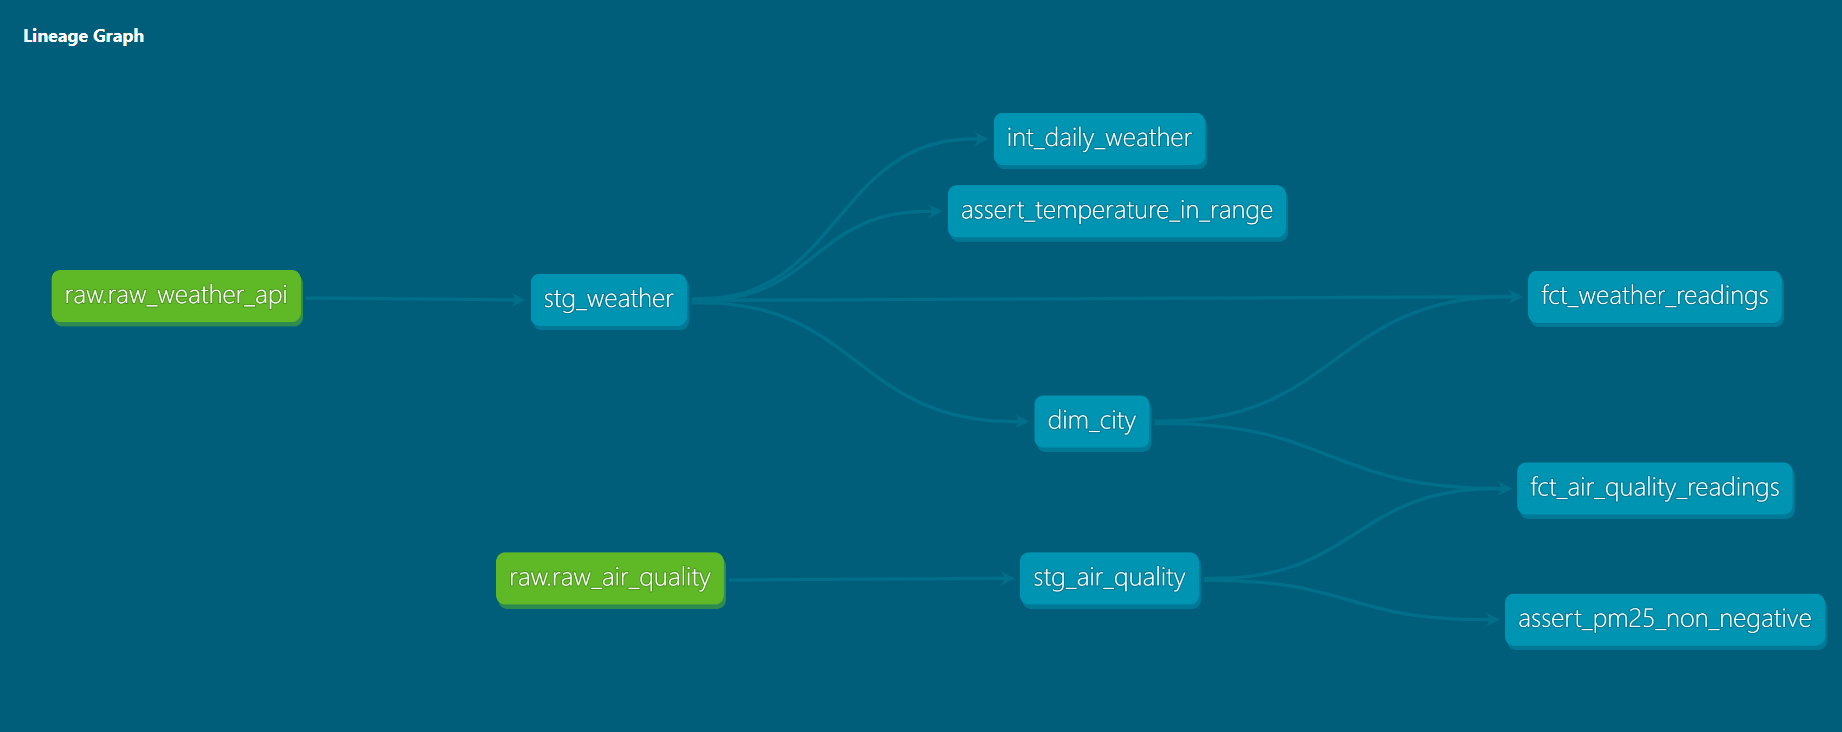
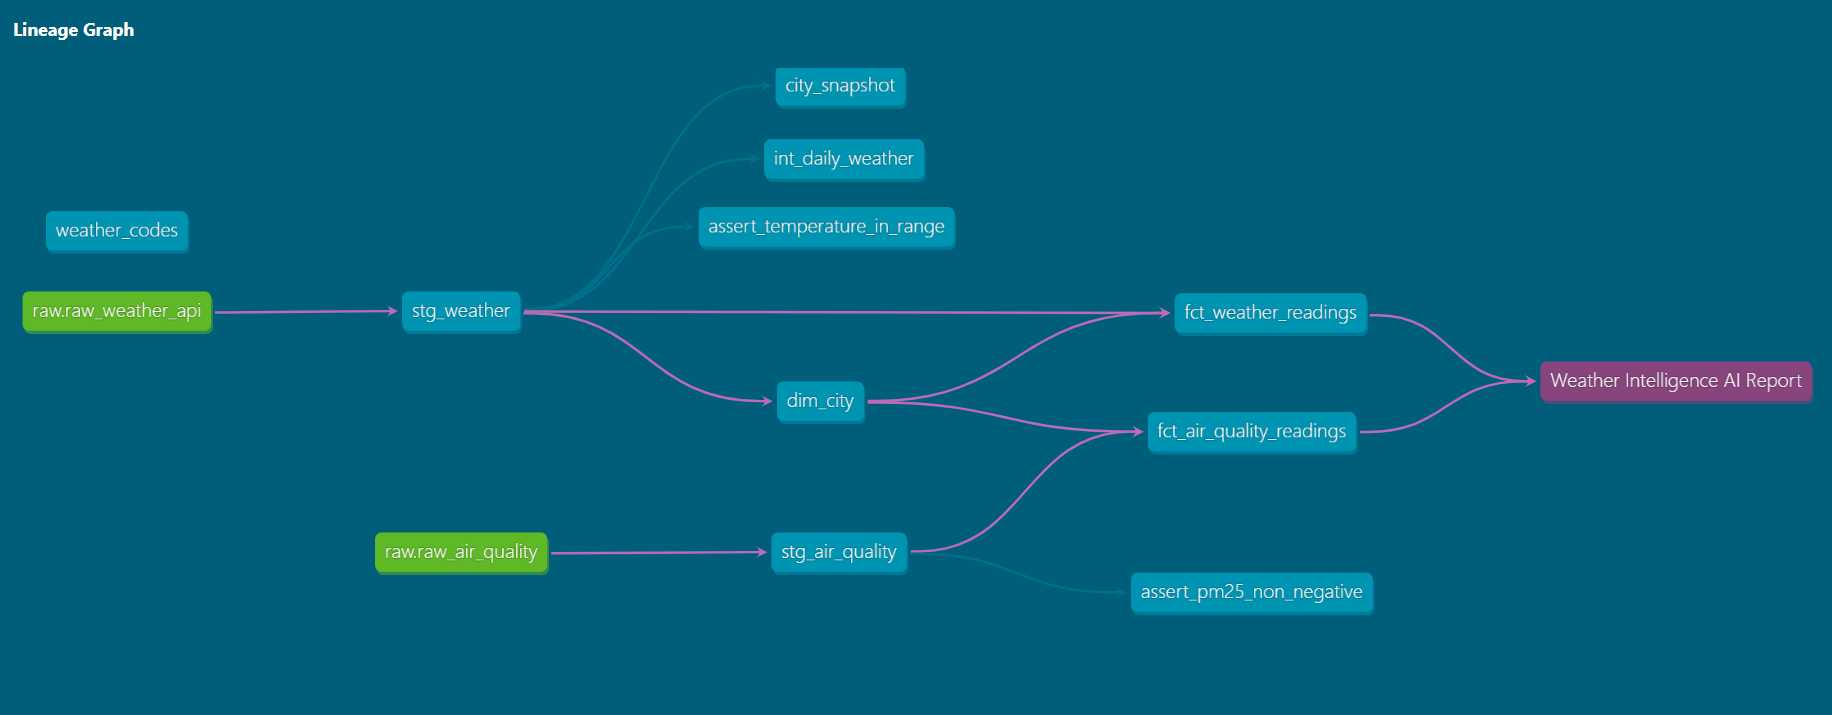
feat: week 3 day 5 - dbt_expectations, freshness, exposures, analytics mart feeding AI summary

diff --git a/src/ai_summary.py b/src/ai_summary.py
@@ -8,60 +8,39 @@ logger = logging.getLogger(__name__)
 
 
 def fetch_rich_summary() -> str:
+    
+    """
+    Pull the daily city summary from the dbt-built mart for AI analysis.
+    """
 
     query = """
-        WITH daily_stats AS (
-            SELECT
-                c.city_name,
-                c.state,
-                d.full_date,
-                d.day_of_week,
-                w.category                          AS weather_category,
-                ROUND(AVG(f.temperature_c), 2)      AS avg_temp,
-                MAX(f.temperature_c)                AS max_temp,
-                MIN(f.temperature_c)                AS min_temp,
-                ROUND(AVG(f.humidity_pct), 2)       AS avg_humidity,
-                ROUND(AVG(f.windspeed_kmh), 2)      AS avg_wind
-            FROM WEATHER_DB.MARTS.FACT_WEATHER_READINGS f
-            JOIN WEATHER_DB.MARTS.DIM_CITY c
-                ON f.city_sk = c.city_sk AND c.is_current = TRUE
-            JOIN WEATHER_DB.MARTS.DIM_DATE d
-                ON f.date_sk = d.date_sk
-            JOIN WEATHER_DB.MARTS.DIM_WEATHER_CODE w
-                ON f.weather_code_sk = w.code_sk
-            GROUP BY c.city_name, c.state, d.full_date, d.day_of_week, w.category
-        ),
-        city_summary AS (
-            SELECT
-                city_name,
-                state,
-                ROUND(AVG(avg_temp), 2)             AS overall_avg_temp,
-                MAX(max_temp)                       AS overall_max_temp,
-                MIN(min_temp)                       AS overall_min_temp,
-                ROUND(AVG(avg_humidity), 2)         AS overall_avg_humidity,
-                COUNT(DISTINCT full_date)           AS days_of_data,
-                LISTAGG(DISTINCT weather_category, ', ')
-                    WITHIN GROUP (ORDER BY weather_category) AS conditions_seen
-            FROM daily_stats
-            GROUP BY city_name, state
-        )
-        SELECT * FROM city_summary ORDER BY overall_avg_temp DESC
+        SELECT
+            city_name,
+            reading_date,
+            avg_temp,
+            max_temp,
+            min_temp,
+            avg_humidity,
+            avg_pm25,
+            avg_uv,
+            air_quality_category
+        FROM WEATHER_DB.DBT_DEV.MART_CITY_DAILY_SUMMARY
+        ORDER BY reading_date DESC, city_name
+        LIMIT 40
     """
 
     df = run_query_df(query)
     if df.empty:
-        return "No data available in FACT tables yet."
+        return "No data available in the daily summary mart yet."
 
-    lines = [f"Weather Intelligence Report — Generated {datetime.now(timezone.utc).strftime('%Y-%m-%d %H:%M')} UTC\n"]
+    lines = [f"Weather & Air Quality Daily Summary — generated {datetime.now(timezone.utc).strftime('%Y-%m-%d %H:%M')} UTC\n"]
     for _, row in df.iterrows():
         lines.append(
-            f"• {row['CITY_NAME']} ({row['STATE']}): "
-            f"Avg {row['OVERALL_AVG_TEMP']}°C | "
-            f"Peak {row['OVERALL_MAX_TEMP']}°C | "
-            f"Low {row['OVERALL_MIN_TEMP']}°C | "
-            f"Humidity {row['OVERALL_AVG_HUMIDITY']}% | "
-            f"Conditions: {row['CONDITIONS_SEEN']} | "
-            f"{row['DAYS_OF_DATA']} days of data"
+            f"- {row['CITY_NAME']} ({row['READING_DATE']}): "
+            f"Avg {row['AVG_TEMP']}C (max {row['MAX_TEMP']}, min {row['MIN_TEMP']}) | "
+            f"Humidity {row['AVG_HUMIDITY']}% | "
+            f"PM2.5 {row['AVG_PM25']} ({row['AIR_QUALITY_CATEGORY']}) | "
+            f"UV {row['AVG_UV']}"
         )
     return "\n".join(lines)
 

diff --git a/docs/week3_notes.md b/docs/week3_notes.md
@@ -16,3 +16,6 @@ TRANSFORM: Airflow triggers a separate dbt DAG (RAW to staging to marts, with te
 Ingestion DAG chains to the dbt DAG via TriggerDagRunOperator
 dbt runs in an isolated venv inside the container to avoid dependency conflicts with Airflow
 This separates imperative E+L (Python) from declarative T (dbt) — the defining pattern of the modern data stack.
+
+The AI summary now reads from mart_city_daily_summary — a tested, documented dbt mart — instead of ad-hoc raw SQL. This means the AI's input is validated by dbt tests every run:
+if temperature is out of range or a city+date duplicates, the pipeline fails before the AI sees bad data. The exposure in dbt documents this dependency in the lineage graph.